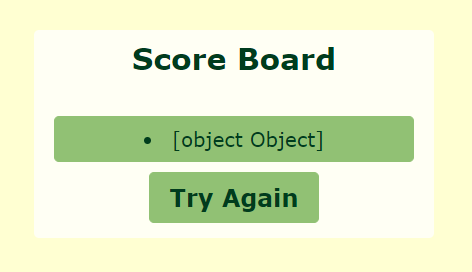
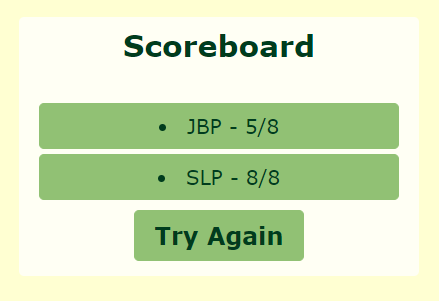
update scoreboard and README

diff --git a/assets/js/script.js b/assets/js/script.js
@@ -186,19 +186,12 @@ function showScoreBoard() {
 
     for (let i = 0; i < totalScore.length; i++) {
         let scoreCard = document.createElement("li");
-        // let scoreName = documetn.createElement(p);
-        // let scoreNumber = documetn.createElement(p);
 
         scoreCard.className = "score";
-        // scoreCard.style = "display: flex; flex-direction: row";
 
-        scoreCard.textContent = totalScore;
+        scoreCard.textContent = totalScore[i].inputName + " - " + totalScore[i].quizScore;
 
         scoreBoardContainer.appendChild(scoreCard);
-        // scoreCard.appendChild(scoreName);
-        // scoreCard.appendChild(scoreNumber);
-
-        // scoreCard.appendChild(totalScore)
     }
 
 }

diff --git a/assets/css/style.css b/assets/css/style.css
@@ -32,6 +32,7 @@ main {
     align-items: center;
 }
 
+
 p {
     background-color: var(--transparent-background-color-dark);
     color: var(--text-color-light);
@@ -46,6 +47,7 @@ p {
 }
 
 .container {
+    /* display: block; */
     width: 400px;
     max-width: 80%;
     background-color: var(--transparent-background-color-light);
@@ -117,6 +119,7 @@ p {
     grid-template-columns: repeat(1, auto);
     gap: 10px;
     margin: 20px 0;
+    list-style-type: none;
 }
 
 .controls {

diff --git a/index.html b/index.html
@@ -11,10 +11,6 @@
 
     <body>
 
-        <header>
-
-        </header>
-
         <p id="timer" class="hide">60</p>
 
         <main>
